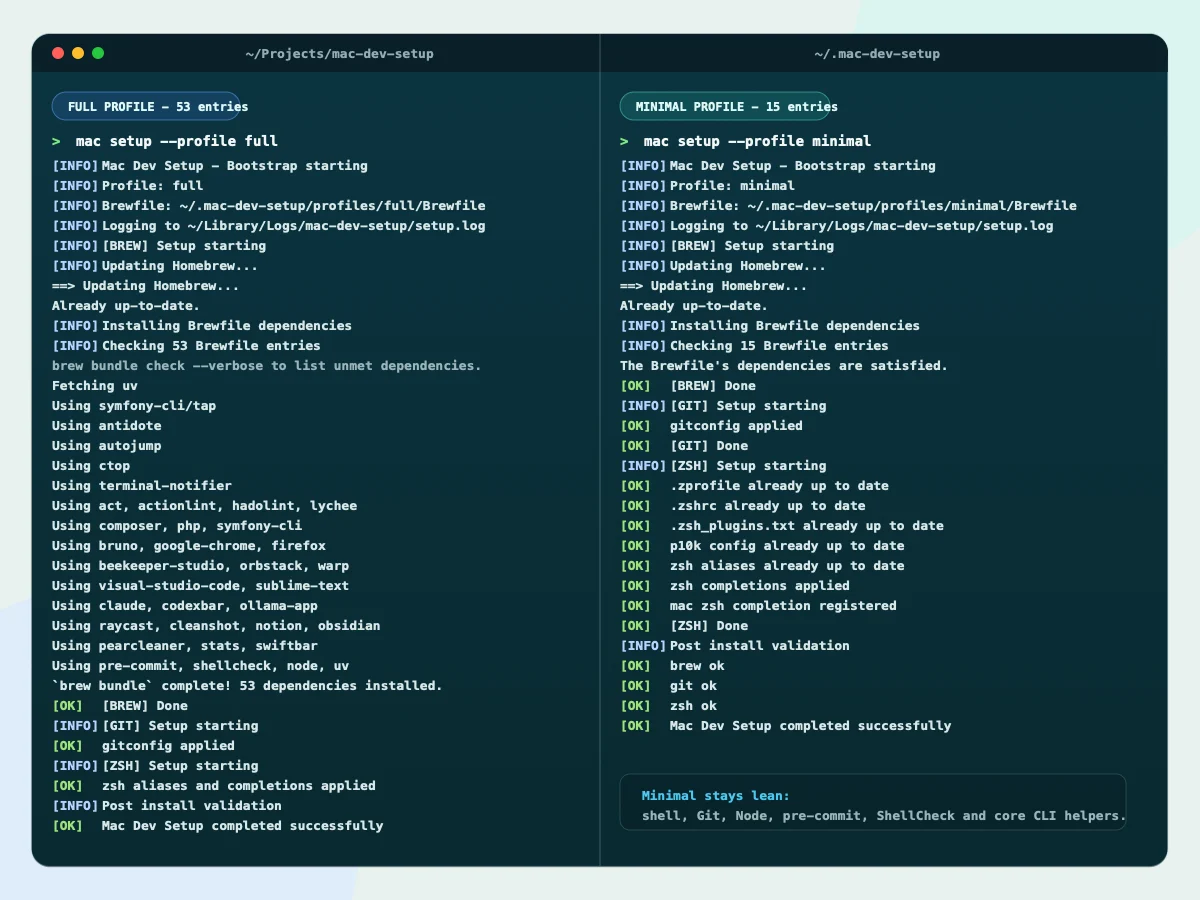
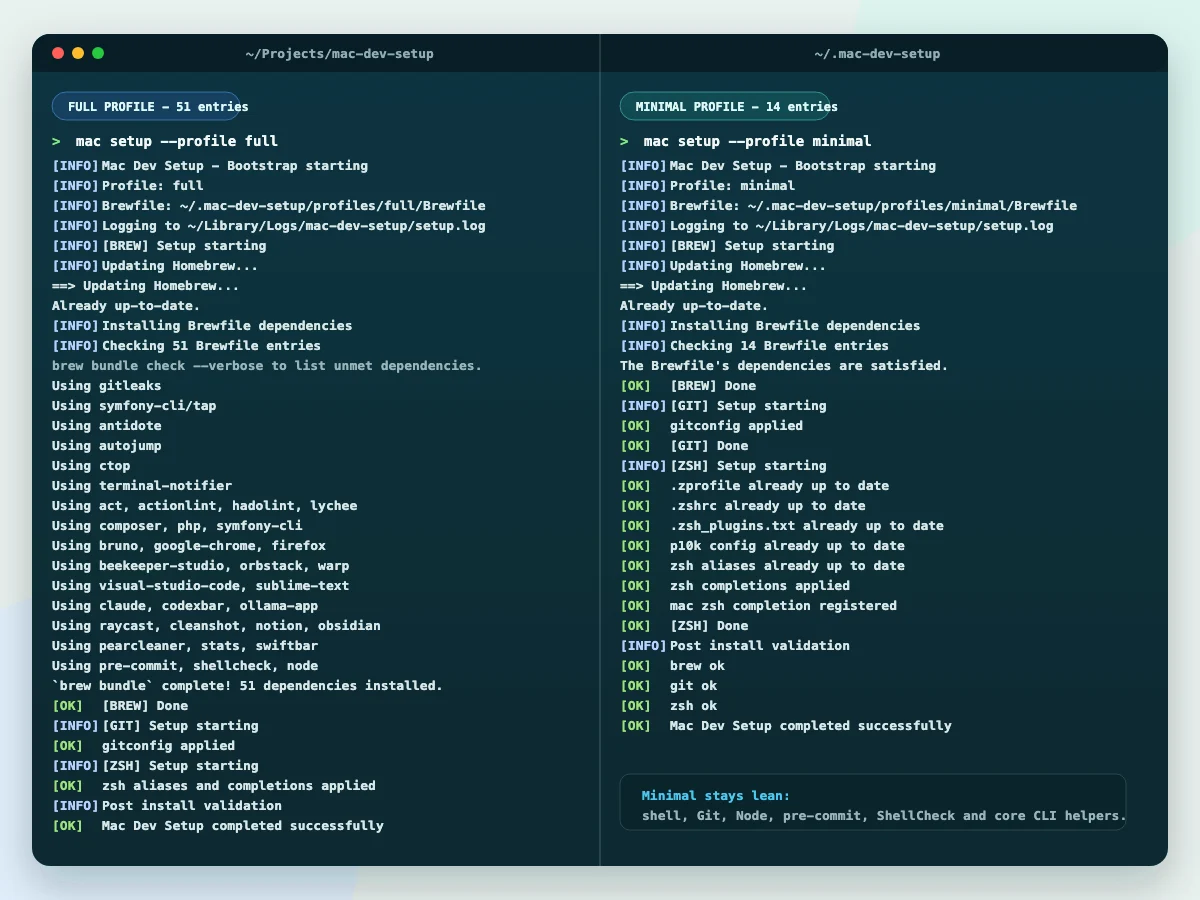
🔥 chore: remove uv and python tooling

diff --git a/docs/ai/codexbar.md b/docs/ai/codexbar.md
@@ -40,15 +40,11 @@ Keychain and are never committed to any repository.
 | Daily / monthly totals | Cumulative usage across sessions |
 | Model breakdown | Usage split by model (Sonnet, Opus, GPT-4o, etc.) |
 
-## Relationship with claude-monitor
+## Relationship With AI Assistants
 
-| Tool | Interface | Scope |
-| --- | --- | --- |
-| CodexBar | Menu bar, always visible | Multi-provider, persistent |
-| claude-monitor | Terminal, run on demand | Claude Code sessions only |
-
-Use CodexBar for a persistent overview of total spend. Use claude-monitor for
-real-time token tracking during an active Claude Code session.
+CodexBar is a companion app for AI coding tools. It stays in the menu bar and
+provides a persistent overview of token usage and estimated cost while Claude,
+Codex, and other assistants are used throughout the day.
 
 ## Rollback
 

diff --git a/CHANGELOG.md b/CHANGELOG.md
@@ -26,8 +26,7 @@ The format is inspired by Keep a Changelog, and the project follows semantic ver
   `docs/vscode/`.
 - Added Codex CLI documentation covering installation, workflow, and comparison
   with Claude Code.
-- Promoted codexbar and claude-monitor from TOOLING to USED with expanded
-  documentation.
+- Promoted codexbar from TOOLING to USED with expanded documentation.
 - Excluded `claude.ai` from lychee link checking as it redirects to login.
 
 ## 1.5.0 - 2026-06-18
@@ -55,8 +54,8 @@ The format is inspired by Keep a Changelog, and the project follows semantic ver
   Xdebug configuration while keeping it disabled by default.
 - PHP/Symfony toolchain documentation covering the shared Homebrew runtime,
   Xdebug policy, and PHPStan project setup.
-- PHP project-level guides for PCOV coverage, Pest, PHP-CS-Fixer, Rector,
-  Infection mutation testing, and mise evaluation.
+- PHP project-level guides for PCOV coverage, Pest, PHP-CS-Fixer, Rector, and
+  Infection mutation testing.
 
 ## 1.2.0 - 2026-06-18
 
@@ -81,8 +80,8 @@ The format is inspired by Keep a Changelog, and the project follows semantic ver
 
 ### Changed
 
-- Added focused inventory documentation for Antidote, autojump, claude-monitor,
-  Ice, KeeWeb, libpq, lsd, Stats, terminal-notifier, and uv.
+- Added focused inventory documentation for Antidote, autojump, Ice, KeeWeb,
+  libpq, lsd, Stats, and terminal-notifier.
 - Expanded the Homebrew inventory so every profile package is represented.
 - Updated the macOS CI Node setup action to `actions/setup-node@v6`.
 - Skipped host-global Homebrew diagnostics on GitHub-hosted runners so CI only

diff --git a/docs/warp/warp.md b/docs/warp/warp.md
@@ -104,15 +104,8 @@ Restart Warp after applying the file.
 Validate the TOML syntax:
 
 ```bash
-python3 - <<'PY'
-from pathlib import Path
-import tomllib
-
-with Path("configs/warp/settings.toml").open("rb") as file:
-    tomllib.load(file)
-
-print("Warp TOML configuration is valid.")
-PY
+test -s configs/warp/settings.toml \
+  && echo "Warp configuration file is present."
 ```
 
 Confirm that rejected and project-specific settings are absent:

diff --git a/README.md b/README.md
@@ -160,7 +160,6 @@ Linting and quality tools run automatically before each commit via `pre-commit`.
 | Tool | What it does | Documentation |
 | --- | --- | --- |
 | Claude (desktop app + CLI) | AI assistant for reasoning, writing, design, and agentic coding | [docs/ai/claude.md](docs/ai/claude.md) |
-| claude-monitor | Real-time token usage monitor for active Claude Code sessions | [docs/ai/claude-monitor.md](docs/ai/claude-monitor.md) |
 | Codex (CLI) | OpenAI's coding assistant, installed globally via `npm` | [docs/ai/codex.md](docs/ai/codex.md) |
 | CodexBar | Menu bar app tracking token usage and cost across AI providers | [docs/ai/codexbar.md](docs/ai/codexbar.md) |
 | Ollama | Run large language models locally (Mistral, Llama, etc.) | [docs/ai/ollama.md](docs/ai/ollama.md) |
@@ -291,8 +290,8 @@ mac setup --profile full      # everything (this is the default)
 
 | Profile | Best for | What you get |
 | --- | --- | --- |
-| `minimal` | Lightweight shell + Git workflow | Core CLI tools, Git helpers, `gh`, `node`, `pre-commit` (15 Homebrew packages) |
-| `full` | Complete dev workstation (default) | Everything in `minimal` + PHP/Symfony stack, quality linters, GUI apps, containers, databases, AI tools (53 Brewfile entries: 30 formulae, 21 casks, 1 tap, 1 `uv` tool) |
+| `minimal` | Lightweight shell + Git workflow | Core CLI tools, Git helpers, `gh`, `node`, `pre-commit` (14 Homebrew packages) |
+| `full` | Complete dev workstation (default) | Everything in `minimal` + PHP/Symfony stack, quality linters, GUI apps, containers, databases, AI tools (51 Brewfile entries: 29 formulae, 21 casks, 1 tap) |
 
 The exact lists live in
 [`profiles/minimal/Brewfile`](profiles/minimal/Brewfile) and

diff --git a/docs/php/php.md b/docs/php/php.md
@@ -84,8 +84,7 @@ Use the focused guides for project-level decisions:
 - [static analysis](static-analysis.md) for PHPStan;
 - [Pest](pest.md) for tests and Composer test scripts;
 - [coding standards](coding-standards.md) for PHP-CS-Fixer and Rector;
-- [mutation testing](mutation-testing.md) for Infection;
-- [mise](mise.md) for runtime version-manager evaluation.
+- [mutation testing](mutation-testing.md) for Infection.
 
 ## Rollback
 

diff --git a/docs/homebrew/inventory.md b/docs/homebrew/inventory.md
@@ -80,14 +80,12 @@ It ensures the Brewfile remains a **curated workstation definition**, not just a
 - `lychee` → link checker.
 - `terminal-notifier` → notification utility.
 - `tlrc` → official `tldr` client for CLI help pages.
-- `uv` → Python package/tool runner, also used for runtime-managed tools.
 
 ---
 
 ### AI assistants
 
 - `claude` → Claude desktop app by Anthropic; used for reasoning, design, and code review.
-- `claude-monitor` → CLI usage monitor for Claude API consumption; installed via `uv`.
 - `codexbar` → menu bar app tracking Claude and Codex usage and costs.
 - `ollama-app` → run large language models locally; used for privacy-sensitive tasks and offline work.
 

diff --git a/docs/security/gitleaks.md b/docs/security/gitleaks.md
@@ -36,6 +36,8 @@ To scan only the current files without inspecting the Git history:
 gitleaks dir .
 ```
 
+![Gitleaks detecting a redacted fake private key in a demo directory](../assets/screenshots/security/gitleaks.webp)
+
 ## Exit status
 
 Gitleaks returns a non-zero exit status when a potential secret is detected.

diff --git a/docs/vscode/sublime-text.md b/docs/vscode/sublime-text.md
@@ -29,7 +29,7 @@ subl filename.txt
 subl .
 ```
 
-![Sublime Text editing a small Python script](../assets/screenshots/apps/sublime-text.webp)
+![Sublime Text editing a small script](../assets/screenshots/apps/sublime-text.webp)
 
 ## When to use Sublime Text vs VS Code
 

diff --git a/docs/vscode/vscode.md b/docs/vscode/vscode.md
@@ -118,7 +118,7 @@ These settings should instead be stored in the relevant project's `.vscode/setti
 Validate the shared settings:
 
 ```bash
-python3 -m json.tool configs/vscode/settings.json >/dev/null
+node -e 'JSON.parse(require("fs").readFileSync("configs/vscode/settings.json", "utf8"))'
 ```
 
 Validate the installation script: